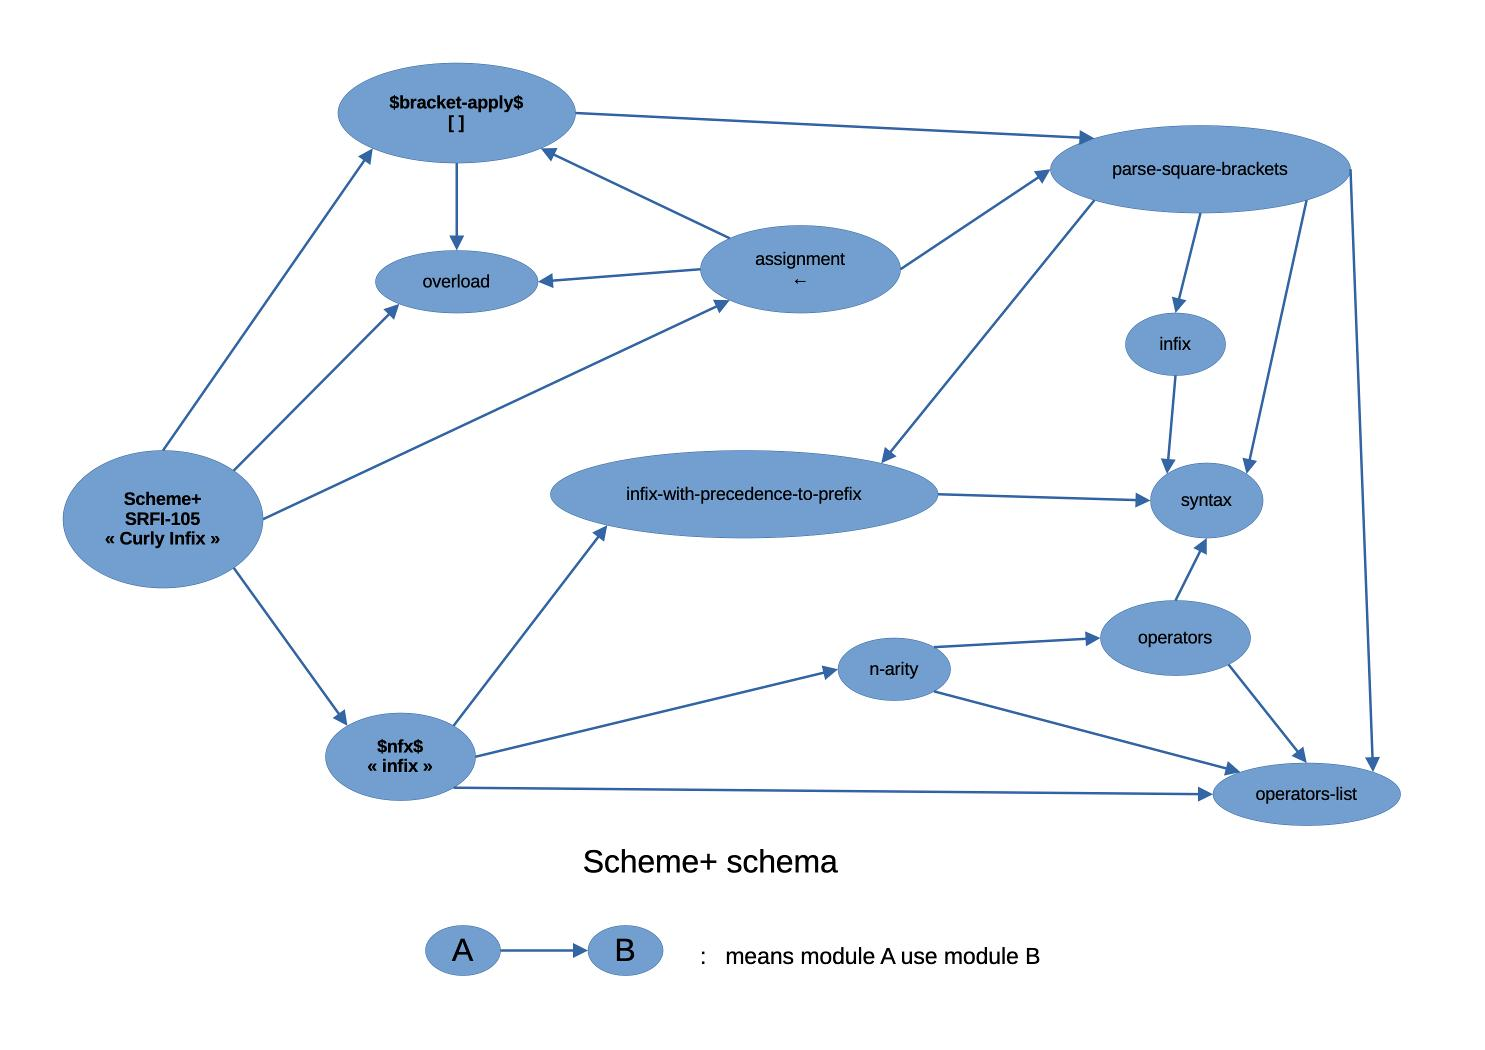
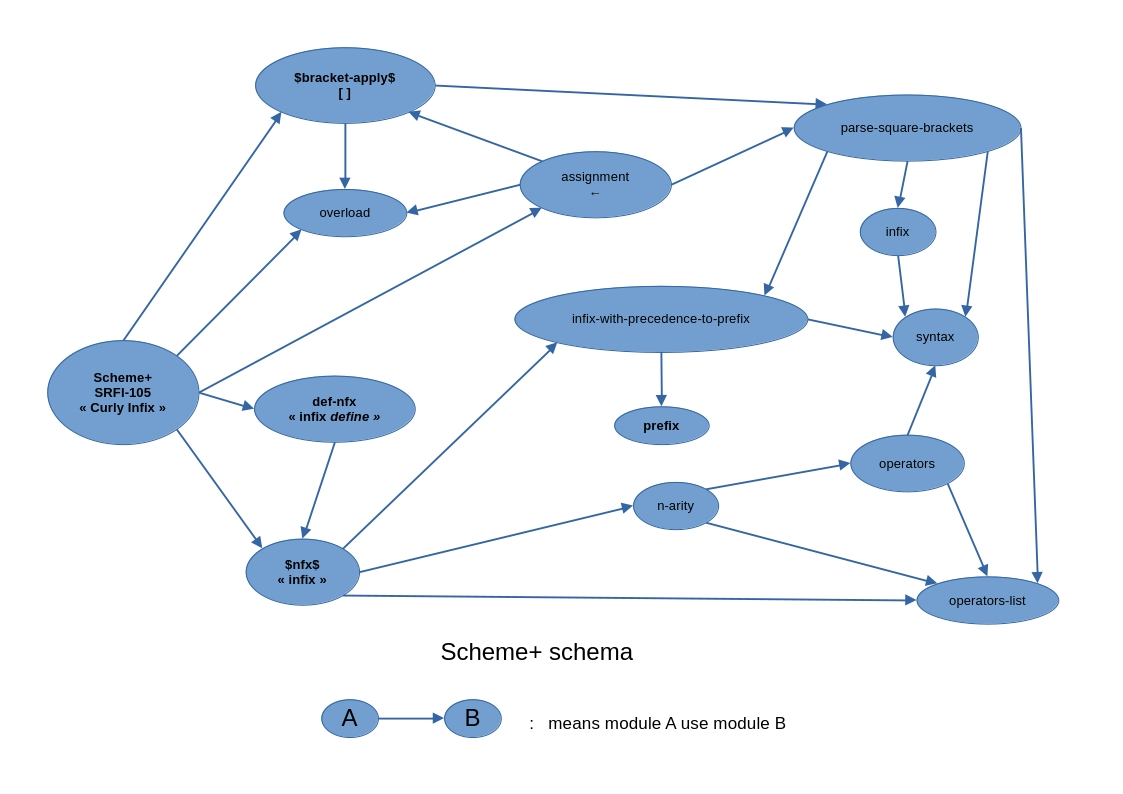
version 9.5

diff --git a/Scheme+io.html b/Scheme+io.html
@@ -139,7 +139,11 @@
     <p style="margin-left: 40px;"><b>With operator precedence: {xp <-
     {x - v * t} / (sqrt {1 - v ** 2 / c ** 2})}</b></p>
     <p style="margin-left: 40px;"><b> {M_i_o[j {i + 1}]  <-  M_i_o[j {i + 1}] - {(- η) * z_input[i] * მzⳆმz̃(z_output[j] z̃_output[j]) * ᐁ_i_o[j]}}</b></p>
-    <div style="margin-left: 40px;"> </div>
+							     <div style="margin-left: 40px;"> </div>
+							     <div style="margin-left: 40px;"> </div>
+	<div style="margin-left: 40px;"> This documentation is sometimes outdated as Scheme+ is updated
+	  , the last versions of Scheme+ allow infix operator precedence using the classic parenthesis ( ) .</div>
+	<div style="margin-left: 40px;"> example: {3 * (3 + 2) + 2} gives the result 17 but beware that now we can no longer write {x <- (cons + arg-list)} but instead (define op+ +) , {x <- (cons op+ arg-list)} , this makes Scheme+ a bit less compatible with Scheme than the previous versions were.</div>
     <p style="margin-left: 40px;">Assignment from right to left : <b>{y ← 7}</b></p>
     <p style="margin-left: 40px;">Assignment from left to right :
   <b>{7 → y}</b></p>

diff --git a/Scheme+.html b/Scheme+.html
@@ -70,7 +70,12 @@
 <p style="margin-left: 40px;"><b>With operator precedence: {xp <- {x -
 v * t} / (sqrt {1 - v ** 2 / c ** 2})}</b></p>
 <p style="margin-left: 40px;"><b> {M_i_o[j {i + 1}]  <-  M_i_o[j {i + 1}] - {(- η) * z_input[i] * მzⳆმz̃(z_output[j] z̃_output[j]) * ᐁ_i_o[j]}}</b></p>
-    <div style="margin-left: 40px;"> </div>
+							 <div style="margin-left: 40px;"> </div>
+							 <div style="margin-left: 40px;"> </div>
+	<div style="margin-left: 40px;"> This documentation is sometimes outdated as Scheme+ is updated
+	  , the last versions of Scheme+ allow infix operator precedence using the classic parenthesis ( ) .</div>
+	<div style="margin-left: 40px;"> example: {3 * (3 + 2) + 2} gives the result 17 but beware that now we can no longer write {x <- (cons + arg-list)} but instead (define op+ +) , {x <- (cons op+ arg-list)} , this makes Scheme+ a bit less compatible with Scheme than the previous versions were.</div>
+			
     <p style="margin-left: 40px;">Assignment from right to left : <b>{y ← 7}</b></p>
     <p style="margin-left: 40px;">Assignment from left to right : <b>{7 → y}<br>
       </b><br>

diff --git a/README.md b/README.md
@@ -81,6 +81,11 @@
   <p style="margin-left: 40px;"><b> {M_i_o[j {i + 1}]  <-  M_i_o[j
   {i + 1}] + η * z_input[i] * მzⳆმz̃(z_output[j] z̃_output[j]) * ᐁ_i_o[j]}</b></p>
    <div style="margin-left: 40px;"> </div>
+   <div style="margin-left: 40px;"> </div>
+	<div style="margin-left: 40px;"> This documentation is sometimes outdated as Scheme+ is updated
+	  , the last versions of Scheme+ allow infix operator precedence using the classic parenthesis ( ) .</div>
+	<div style="margin-left: 40px;"> example: {3 * (3 + 2) + 2} gives the result 17 but beware that now we can no longer write {x <- (cons + arg-list)} but instead (define op+ +) , {x <- (cons op+ arg-list)} , this makes Scheme+ a bit less compatible with Scheme than the previous versions were.</div>
+	
     <p style="margin-left: 40px;">Assignment from right to left : <b>{y ← 7}</b></p>
     <p style="margin-left: 40px;">Assignment from left to right :
   <b>{7 → y}</b></p>
